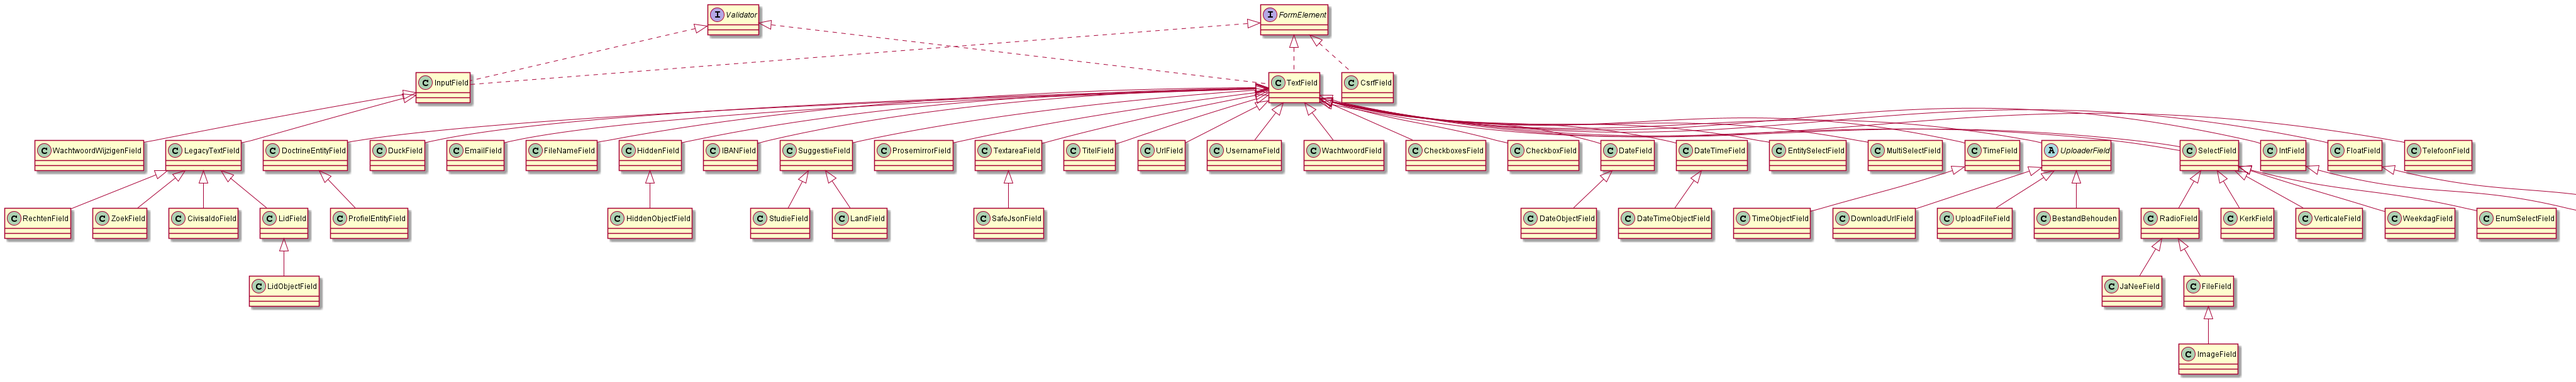
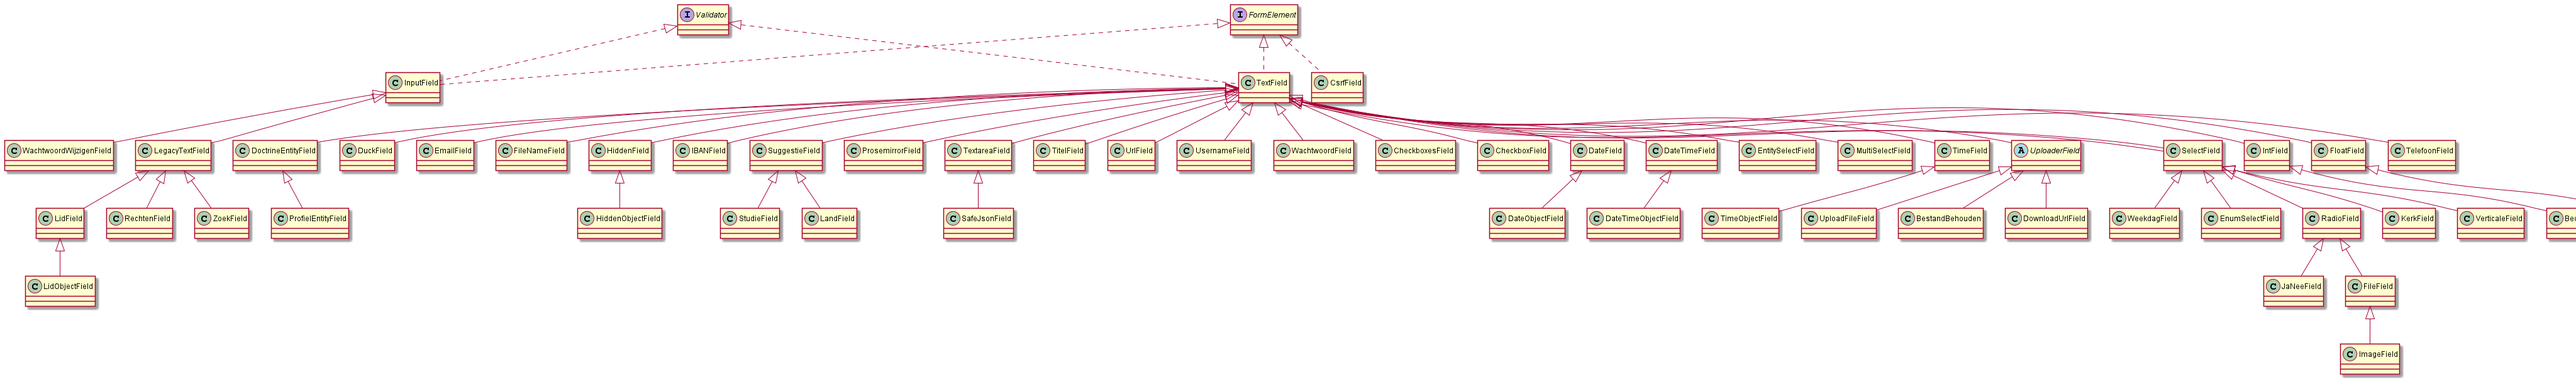
Verwijder Civisaldofield

diff --git a/lib/controller/fiscaat/PinTransactieController.php b/lib/controller/fiscaat/PinTransactieController.php
@@ -8,6 +8,7 @@ use CsrDelft\common\CsrGebruikerException;
 use CsrDelft\common\datatable\RemoveDataTableEntry;
 use CsrDelft\common\Mail;
 use CsrDelft\controller\AbstractController;
+use CsrDelft\entity\fiscaat\CiviSaldo;
 use CsrDelft\entity\fiscaat\enum\CiviProductTypeEnum;
 use CsrDelft\entity\pin\PinTransactieMatch;
 use CsrDelft\entity\pin\PinTransactieMatchStatusEnum;
@@ -170,8 +171,9 @@ class PinTransactieController extends AbstractController {
 				throw new CsrGebruikerException('Geen transactie gevonden om een bestelling voor aan te maken');
 			}
 
-			$account = $this->civiSaldoRepository->getSaldo($values['uid'], true);
-			if (!$account) {
+			/** @var CiviSaldo|null $account */
+			$account = $values['civisaldo'];
+			if (!$account || $account->deleted) {
 				throw new CsrGebruikerException("Er is geen CiviSaldo voor dit lid gevonden.");
 			}
 
@@ -181,7 +183,7 @@ class PinTransactieController extends AbstractController {
 
 				$bestelling = $pinTransactieMatch->bouwBestelling($this->civiProductRepository, $values['comment'] ?: null, $account->uid);
 				$bestelling->id = $this->civiBestellingModel->create($bestelling);
-				$this->civiSaldoRepository->ophogen($values['uid'], $pinTransactie->getBedragInCenten());
+				$this->civiSaldoRepository->ophogen($account->uid, $pinTransactie->getBedragInCenten());
 
 				$manager = $this->getDoctrine()->getManager();
 				$manager->remove($pinTransactieMatch);

diff --git a/lib/view/fiscaat/pin/PinBestellingAanmakenForm.php b/lib/view/fiscaat/pin/PinBestellingAanmakenForm.php
@@ -3,10 +3,11 @@
 namespace CsrDelft\view\fiscaat\pin;
 
 use CsrDelft\common\CsrGebruikerException;
+use CsrDelft\entity\fiscaat\CiviSaldo;
 use CsrDelft\entity\pin\PinTransactieMatch;
 use CsrDelft\view\formulier\elementen\HtmlComment;
 use CsrDelft\view\formulier\getalvelden\required\RequiredIntField;
-use CsrDelft\view\formulier\invoervelden\CivisaldoField;
+use CsrDelft\view\formulier\invoervelden\required\RequiredDoctrineEntityField;
 use CsrDelft\view\formulier\invoervelden\TextareaField;
 use CsrDelft\view\formulier\invoervelden\TextField;
 use CsrDelft\view\formulier\keuzevelden\JaNeeField;
@@ -28,8 +29,7 @@ class PinBestellingAanmakenForm extends ModalForm {
 
 		$fields = [];
 		$fields[] = new HtmlComment('Er is geen bestelling gevonden voor deze transactie. Maak met onderstaand formulier een nieuwe bestelling aan met het aangegeven bedrag.');
-		$fields['civisaldo'] = new CivisaldoField('uid', null, 'Account');
-		$fields['civisaldo']->required = true;
+		$fields[] = new RequiredDoctrineEntityField('civisaldo', null, 'Account', CiviSaldo::class, '/fiscaat/saldo/zoek?q=');
 		$fields['comment'] = new TextField('comment', $comment, 'Externe notitie');
 		$fields['intern'] = new TextareaField('intern', $pinTransactieMatch ? $pinTransactieMatch->notitie : null, 'Interne notitie');
 		$fields['stuurMail'] = new JaNeeField('stuurMail', true, 'Stuur mail naar lid');

diff --git a/lib/controller/fiscaat/BeheerCiviSaldoController.php b/lib/controller/fiscaat/BeheerCiviSaldoController.php
@@ -211,9 +211,11 @@ class BeheerCiviSaldoController extends AbstractController {
 		$resp = [];
 		foreach ($civiSaldi as $civiSaldo) {
 			$profiel = ProfielRepository::get($civiSaldo->uid);
+			$naam =  !$profiel ? $civiSaldo->naam : $profiel->getNaam('volledig');
 			$resp[] = [
-				'label' => !$profiel ? $civiSaldo->naam : $profiel->getNaam('volledig'),
-				'value' => $civiSaldo->uid
+				'label' => $naam,
+				'value' => $naam,
+				'id' => $civiSaldo->uid,
 			];
 		}
 

diff --git a/lib/view/formulier/Formulier.php b/lib/view/formulier/Formulier.php
@@ -198,7 +198,7 @@ class Formulier implements View, Validator, ToResponse {
 		$values = array();
 		foreach ($this->fields as $field) {
 			if ($field instanceof InputField || $field instanceof TextField) {
-				$values[$field->getName()] = $field->getValue();
+				$values[$field->getName()] = $field->getFormattedValue();
 			}
 		}
 		return $values;
